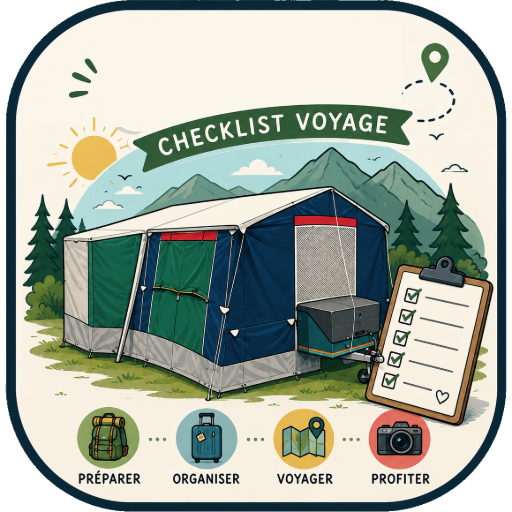
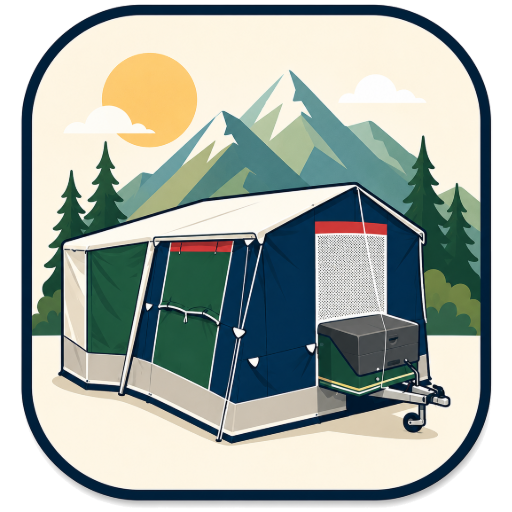
Nouvelle icône : illustration sans texte
Remplace l'illustration précédente par la version fournie sans titre :
tente-remorque en perspective, montagnes, sapins et soleil, dans la même
vignette arrondie. Bien plus lisible aux petites tailles, où les textes
« CHECKLIST VOYAGE » et les libellés du bandeau devenaient illisibles.

- icons/source-original.png et icons/source.png mis à jour
- Vignette détectée puis recadrée au carré centré
- Le fond extérieur (blanc ou noir selon les fichiers) est rendu
  transparent par remplissage depuis les quatre coins, sinon la variante
  maskable affiche un cadre parasite
- Tailles 512, 192, apple-touch 180 et maskable 512 régénérées
- Cache du service worker incrémenté (v4.1)

Version 4.1

Claude-Session: https://claude.ai/code/session_013wCpmtgvo3vt5CRixnrzGA

diff --git a/sw.js b/sw.js
@@ -3,7 +3,7 @@
    dernière version publiée quand il y a du réseau, et la dernière version
    consultée quand il n'y en a pas (utile au camping). */
 
-const CACHE = "checklist-vacances-v3.8";
+const CACHE = "checklist-vacances-v4.1";
 
 const ASSETS = [
   "./",

diff --git a/index.html b/index.html
@@ -625,7 +625,7 @@ const STYLE = [
   ["🧸","#FBDA8B","#96690A"]
 ];
 
-const VERSION = "4.0";
+const VERSION = "4.1";
 const VERSION_DATE = "26/07/2026";
 const KEY = "checklist_vacances_v1";
 
